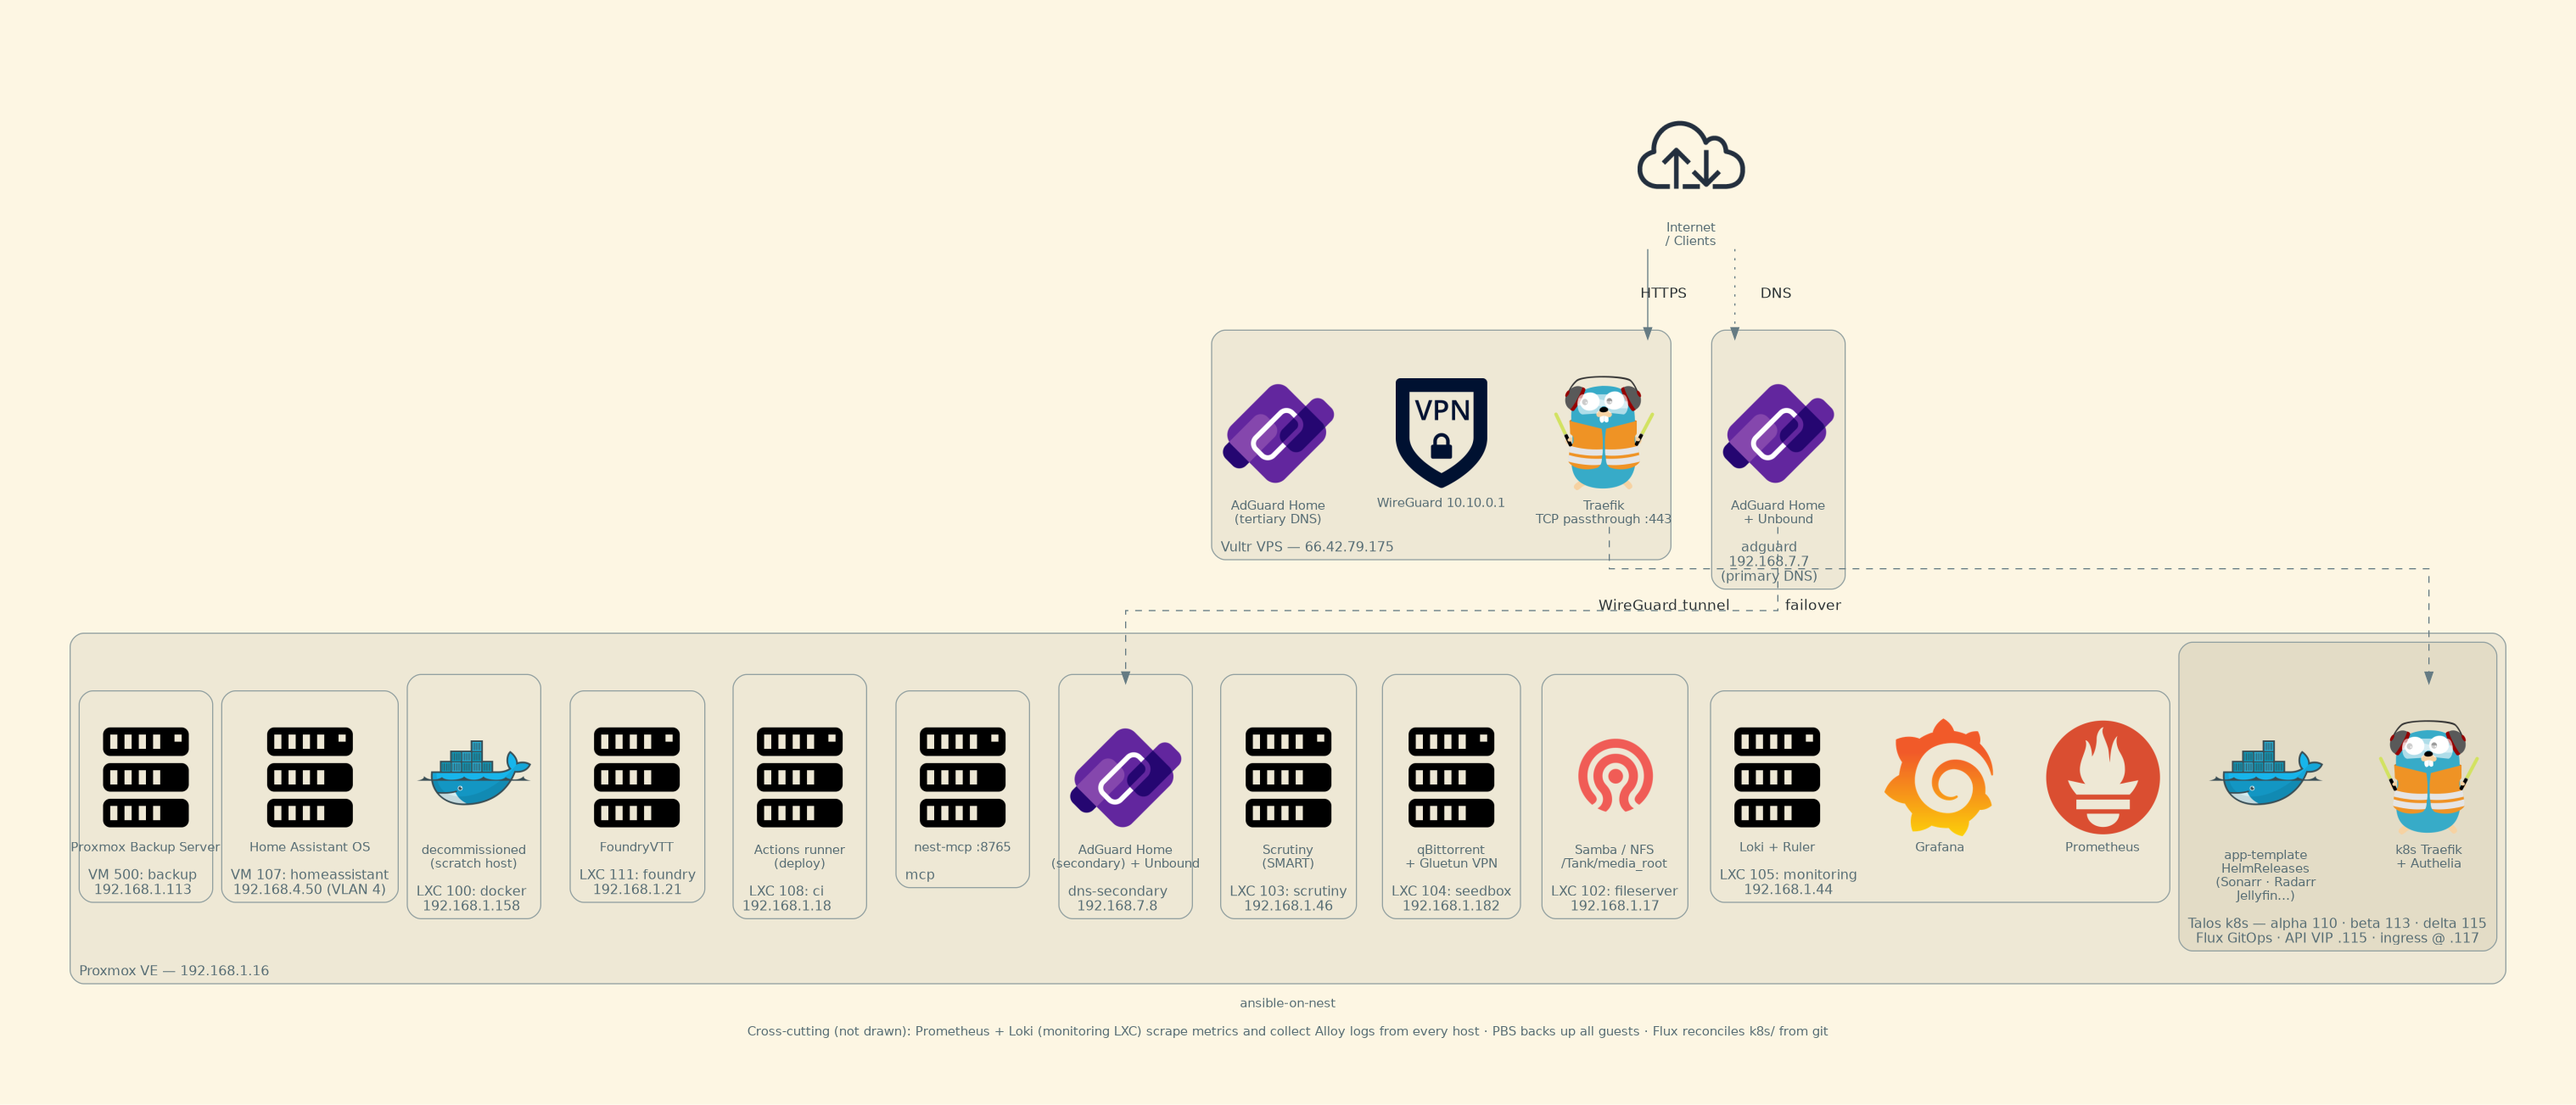
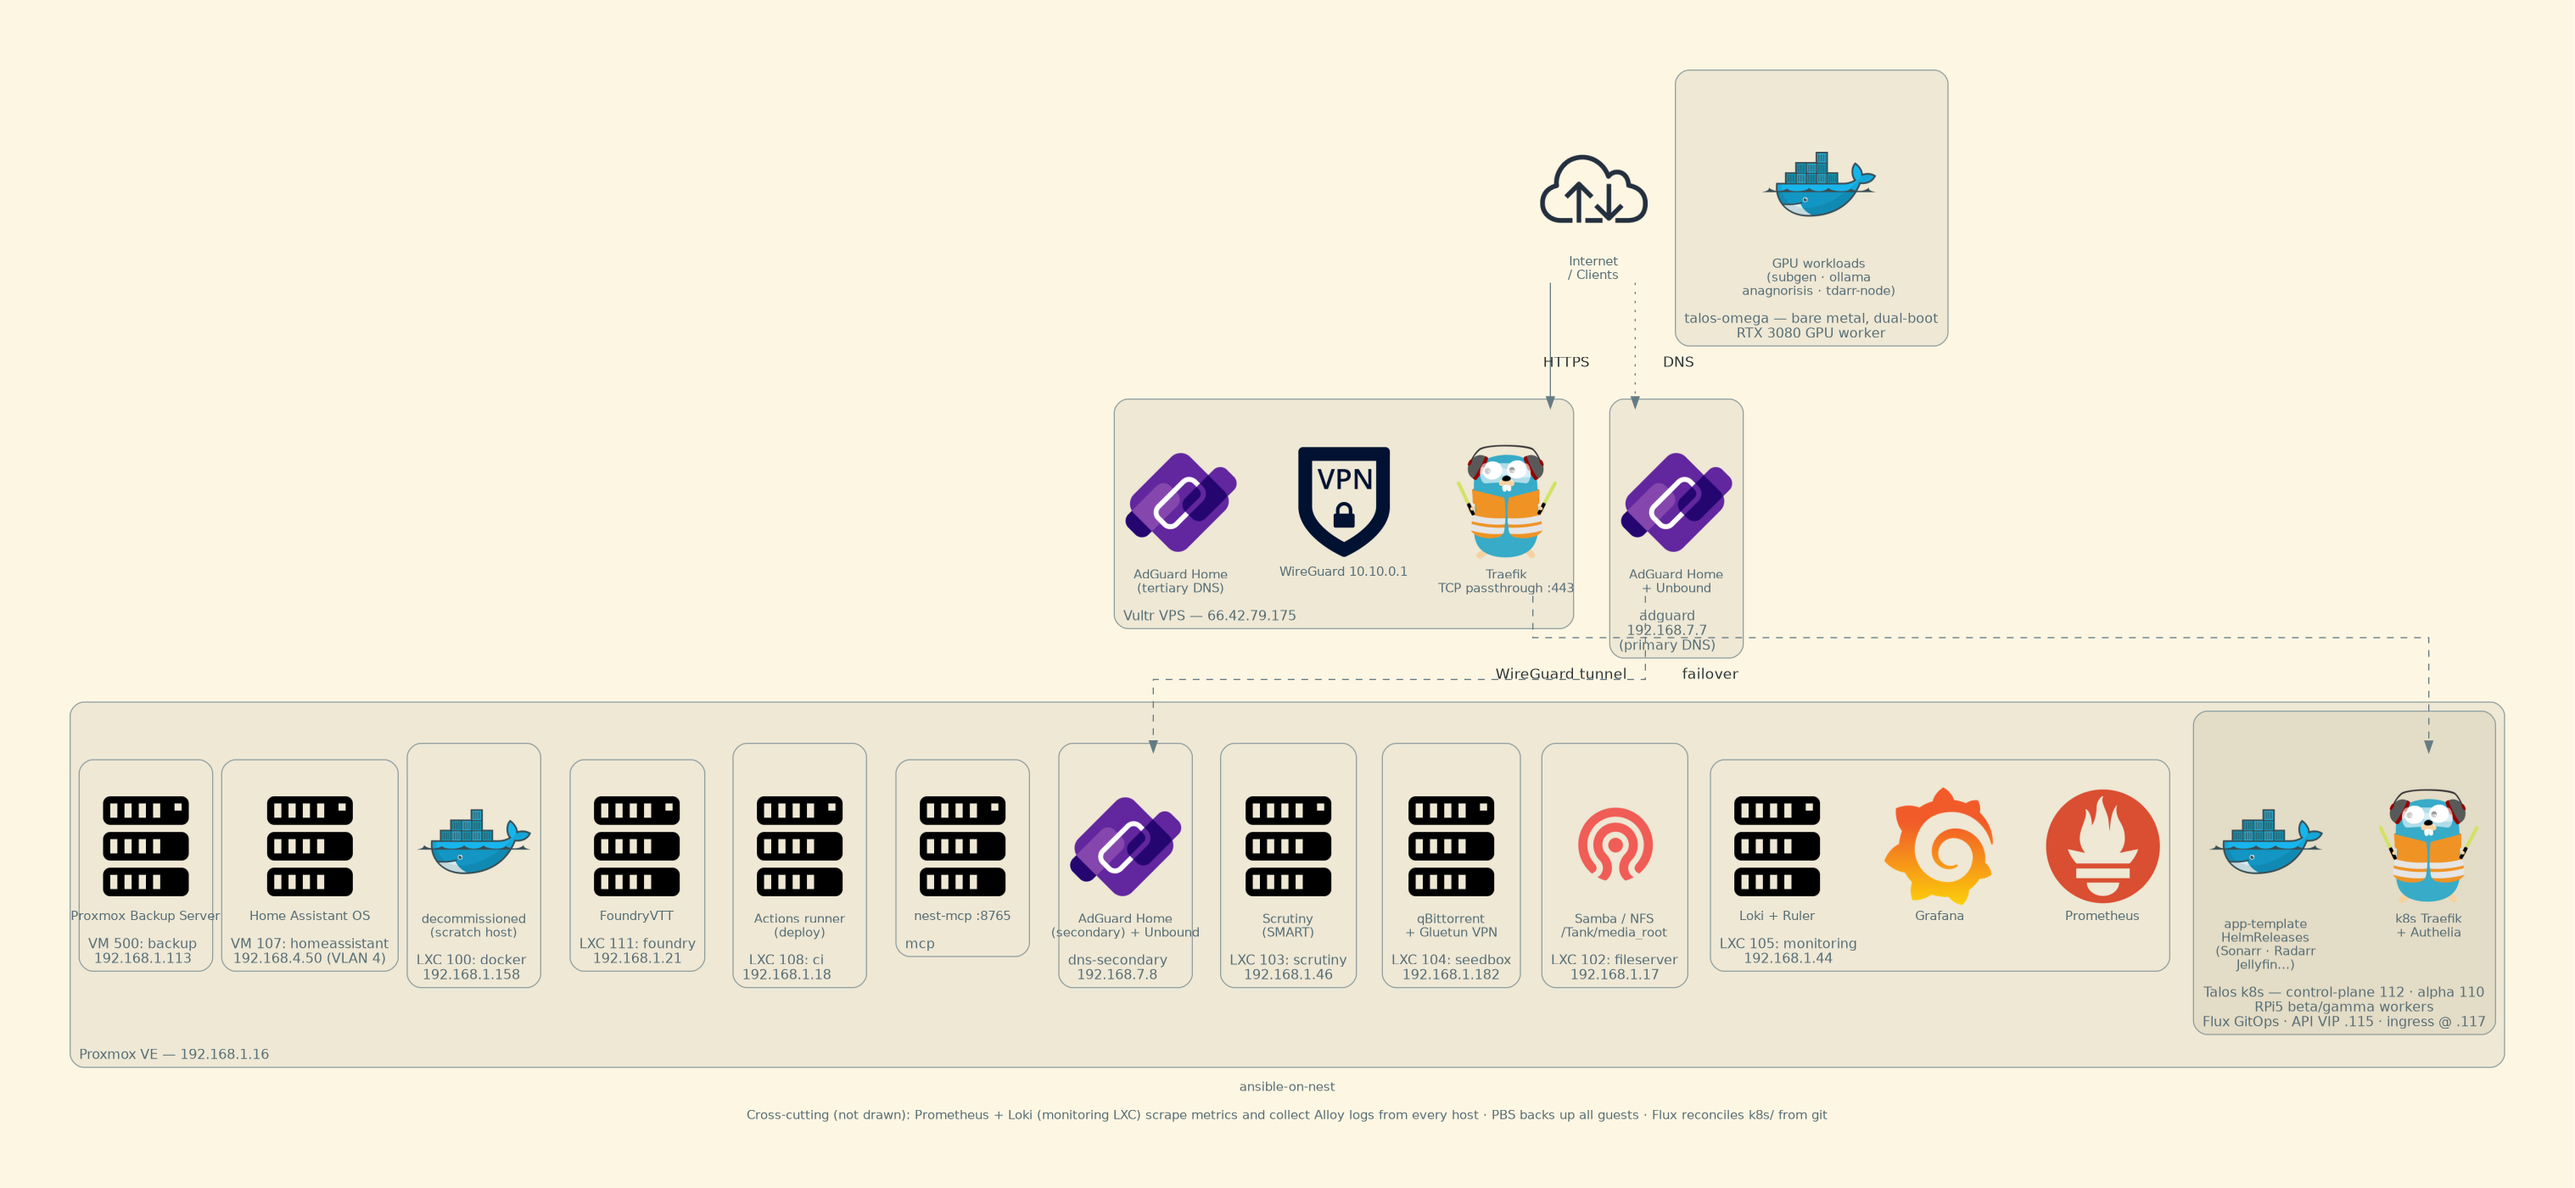
feat(monitoring): add cAdvisor scrape + document talos-omega GPU node (#560)
* feat(monitoring): add cAdvisor DaemonSet + Prometheus scrape for per-pod metrics

metrics-server (#558) only gives a live kubectl top snapshot, no
history. This adds real per-pod CPU/memory into Prometheus/Grafana so
memory-limit tuning (tunarr, jellyfin, KSM...) stops being blind
guesses.

Runs cAdvisor as a hostNetwork DaemonSet, same pattern as
node-exporter/node-k8s — each Talos node exposes :8080 on its own IP,
no Service/MetalLB, no auth needed. Chose this over scraping the
kubelet's own /metrics/cadvisor endpoint because that requires
bearer-token auth (Talos kubelet is anonymous-auth-off), which means a
ServiceAccount token secret in ansible-vault and a two-stage
deploy-then-wire-up rollout for no real benefit here.

gcr.io/cadvisor/cadvisor:v0.55.1 is multi-arch (amd64/arm/arm64) so no
nodeSelector is needed — verified before writing the manifest, since
tunarr already bit us once on an amd64-only image landing on
beta-rpi5.

New Prometheus job 'cadvisor-k8s' mirrors node-k8s's relabel pattern
(IP -> talos-* instance name) so series join kube-state-metrics' node=
label, same as node-exporter does.

Claude-Session: https://claude.ai/code/session_01WomnUVh6aEwPCaWnWrm3k5

* docs: add talos-omega GPU node to architecture docs and diagrams

design.md was still describing a 4-node cluster with no GPU capacity.
Document talos-omega (the user's dual-boot gaming PC, RTX 3080), the
gpu-operator infra namespace, and the dcgm Prometheus scrape job, and
[…]

diff --git a/scripts/generate_diagram.py b/scripts/generate_diagram.py
@@ -156,7 +156,8 @@ def generate_full(hosts: dict, lxcs: dict, out_dir: Path, fmt: str) -> None:
 
         with Cluster("Proxmox VE — 192.168.1.16", graph_attr=CLUSTER):
 
-            with Cluster("Talos k8s — alpha 110 · beta 113 · delta 115\n"
+            with Cluster("Talos k8s — control-plane 112 · alpha 110\n"
+                         "RPi5 beta/gamma workers\n"
                          "Flux GitOps · API VIP .115 · ingress @ .117",
                          graph_attr=CLUSTER_INNER):
                 nest_traefik = Traefik("k8s Traefik\n+ Authelia")
@@ -197,6 +198,10 @@ def generate_full(hosts: dict, lxcs: dict, out_dir: Path, fmt: str) -> None:
             with Cluster("VM 500: backup\n192.168.1.113", graph_attr=CLUSTER):
                 Server("Proxmox Backup Server")
 
+        with Cluster("talos-omega — bare metal, dual-boot\nRTX 3080 GPU worker",
+                     graph_attr=CLUSTER):
+            Docker("GPU workloads\n(subgen · ollama\nanagnorisis · tdarr-node)")
+
         with Cluster(host_label("adguard", hosts, "(primary DNS)"), graph_attr=CLUSTER):
             adguard = Coredns("AdGuard Home\n+ Unbound")
 
@@ -235,7 +240,7 @@ def generate_flow(hosts: dict, lxcs: dict, out_dir: Path, fmt: str) -> None:
             vps_traefik = Traefik("Traefik\nTCP passthrough\n:443")
             vps_wg      = VPN("WireGuard\n10.10.0.1")
 
-        with Cluster("Talos k8s cluster\nFlux GitOps", graph_attr=CLUSTER):
+        with Cluster("Talos k8s cluster\nalpha · control-plane · RPi5 x2 · omega (GPU)\nFlux GitOps", graph_attr=CLUSTER):
             nest_wg        = VPN("WireGuard\n10.10.0.3 (alpha)")
             nest_traefik   = Traefik("k8s Traefik\nMetalLB 192.168.1.117\nTLS term · PROXY v2")
             authelia       = Server("Authelia\nSSO / 2FA")

diff --git a/docs/design.md b/docs/design.md
@@ -57,13 +57,31 @@ The Pi lives on VLAN 7. PVE and all LXCs are on the main LAN (192.168.1.x). Home
 | talos-beta-rpi5 | 192.168.1.112 | Talos worker (arm64) |
 | talos-gamma-rpi5 | 192.168.1.118 | Talos worker (arm64) |
 
-The cluster is four nodes: one dedicated control plane (VM 112) and three workers —
-alpha (VM 110, amd64) plus the two RPi5s (arm64). The control plane is **not**
+### Gaming PC k8s node (physical, dual-boot)
+
+| Node | IP | Role |
+|---|---|---|
+| talos-omega | 192.168.1.120 | Talos worker (amd64) — **only** GPU node in the cluster (RTX 3080) |
+
+`talos-omega` is the user's gaming PC, dual-booted between Windows and Talos off a
+dedicated second disk — not Proxmox-managed like every other node. It's routinely
+offline for hours at a time when rebooted into Windows for gaming; this is expected,
+not an incident (`KubeNodeNotReady` explicitly excludes it — see
+[docs/gaming-gpu-talos.md](gaming-gpu-talos.md) for the full onboarding runbook,
+GPU wiring, and known issues). Worker only, never joins etcd.
+
+The cluster is five nodes: one dedicated control plane (VM 112), one general-purpose
+worker (alpha, VM 110, amd64), two RPi5 workers (arm64), and the omega GPU worker
+(amd64, bare metal). The control plane is **not**
 schedulable; the multi-node control plane described in
 [k8s-migration.md](k8s-migration.md) was consolidated onto VM 112 on 2026-07-22, and the
 beta/delta test VMs (113/115) were removed. Heavy media workloads prefer or pin to alpha
 via the `nest.arishaig.site/workloads=general` node label; `amd64`-only workloads
-(jellyfin, tunarr) carry an explicit arch nodeSelector.
+(jellyfin, tunarr) carry an explicit arch nodeSelector; GPU workloads (subgen, ollama,
+anagnorisis, tdarr-node) are hard-pinned to omega via
+`nest.arishaig.site/workloads=omega` and require `runtimeClassName: nvidia`. Jellyfin
+carries an explicit anti-affinity to guarantee it never lands on omega, since it must
+stay up through omega's routine downtime.
 
 > Note that all four of these guests, the NFS storage backing the cluster's PVCs, and PBS
 > itself run on the single Proxmox host. **This is an accepted single failure domain**, not
@@ -242,6 +260,7 @@ Storage classes:
 | `alloy` | Grafana Alloy DaemonSet — ships all pod logs to Loki; parses Traefik access logs as JSON |
 | `local-path-provisioner` | Local path storage class |
 | `nfs-provisioner` | `nfs-nvme` StorageClass |
+| `gpu-operator` | NVIDIA GPU Operator — device plugin, dcgm-exporter, gpu-feature-discovery; operand DaemonSets self-scope to `talos-omega` (the sole GPU node) via NFD PCI-vendor detection, not a manual nodeSelector; 3x time-slicing configured so subgen/tdarr-node/anagnorisis can share the single 3080 |
 
 ### Apps (`k8s/apps/`)
 
@@ -295,6 +314,7 @@ Scrapes every 30s. Jobs:
 | `redis` | redis-exporter via metrics LB (`192.168.1.116:9121`) |
 | `postgres` | postgres-exporter via metrics LB (`192.168.1.116:9187`) |
 | `qbittorrent` | qbittorrent-exporter on seedbox LXC (`192.168.1.182:9022`) |
+| `dcgm` | NVIDIA DCGM exporter (gpu-operator DaemonSet on talos-omega) via metrics LB (`192.168.1.116:9400`); VRAM/temp/Xid visibility for the shared 3080 |
 | `scrutiny` | SMART metrics API |
 | `homeassistant` | HA Prometheus integration (bearer token in vault) |
 | `wled` | WLED LED controller at `backlight.arishaig.site` |
@@ -510,4 +530,5 @@ WireGuard MTU is explicitly set to 1420 on both sides of the tunnel to avoid fra
 | Cloudflare zone settings | Only DNS records are managed | |
 | TLS certificates | Issued by cert-manager (Cloudflare DNS-01), stored as k8s Secret | Lost on Talos cluster rebuild; re-issued automatically |
 | `casa.arishaig.site` | Managed by Nabu Casa | Not in Terraform |
+| `talos-omega` hardware | Physical gaming PC, dual-boot with Windows | Only the Talos machine config (`talos/patches/worker-omega.yaml`) and its join are scripted; the node itself isn't a Terraform resource like every other Talos node — see [gaming-gpu-talos.md](gaming-gpu-talos.md) |
 | Tertiary AdGuard TLS config | Provider bug: switches to https mid-apply via tunnel | Configured once via web UI; cert managed by certbot |
